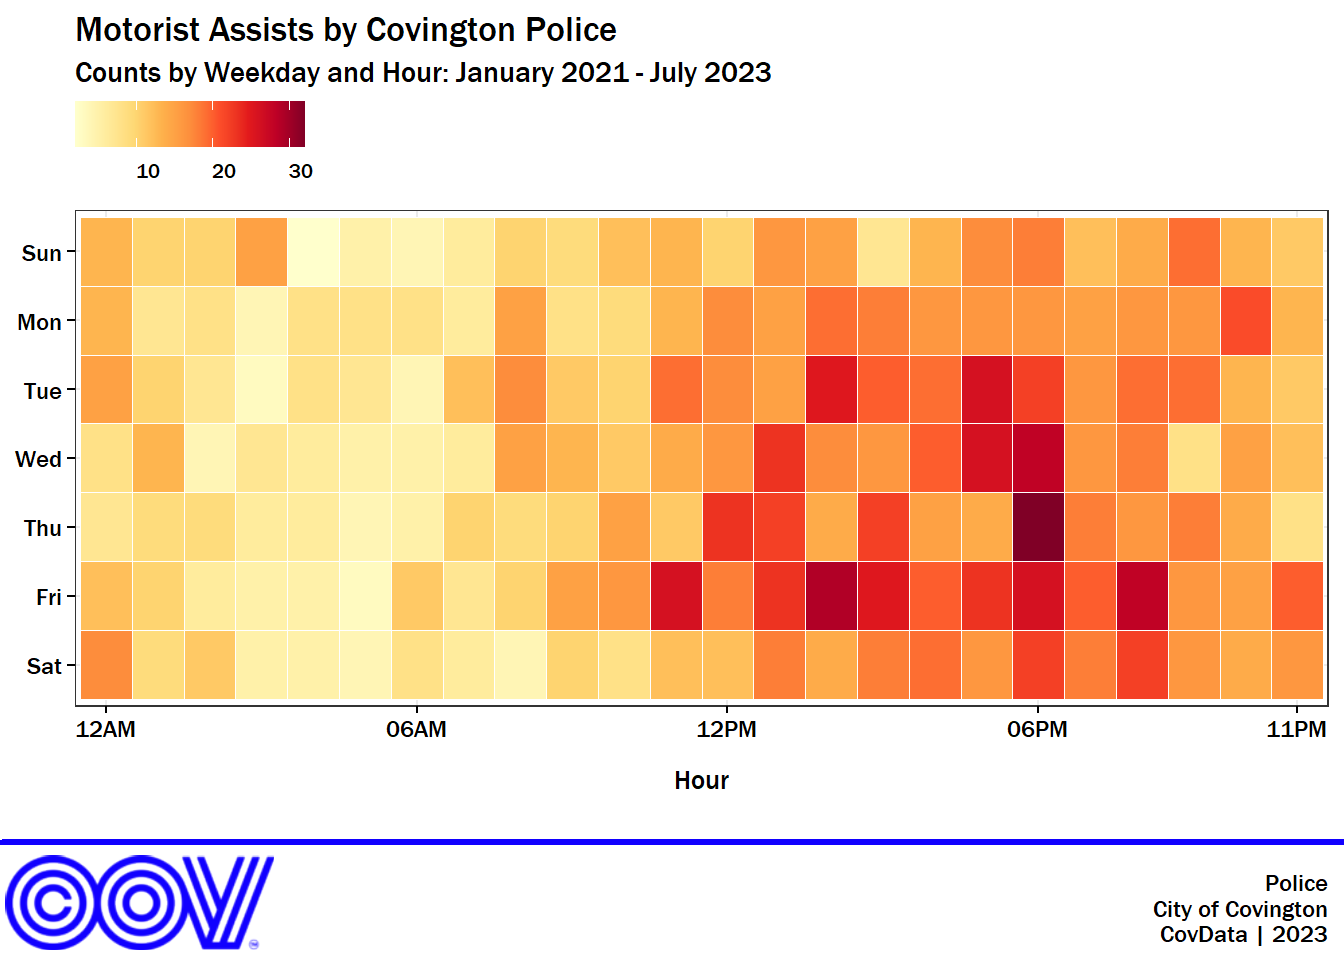
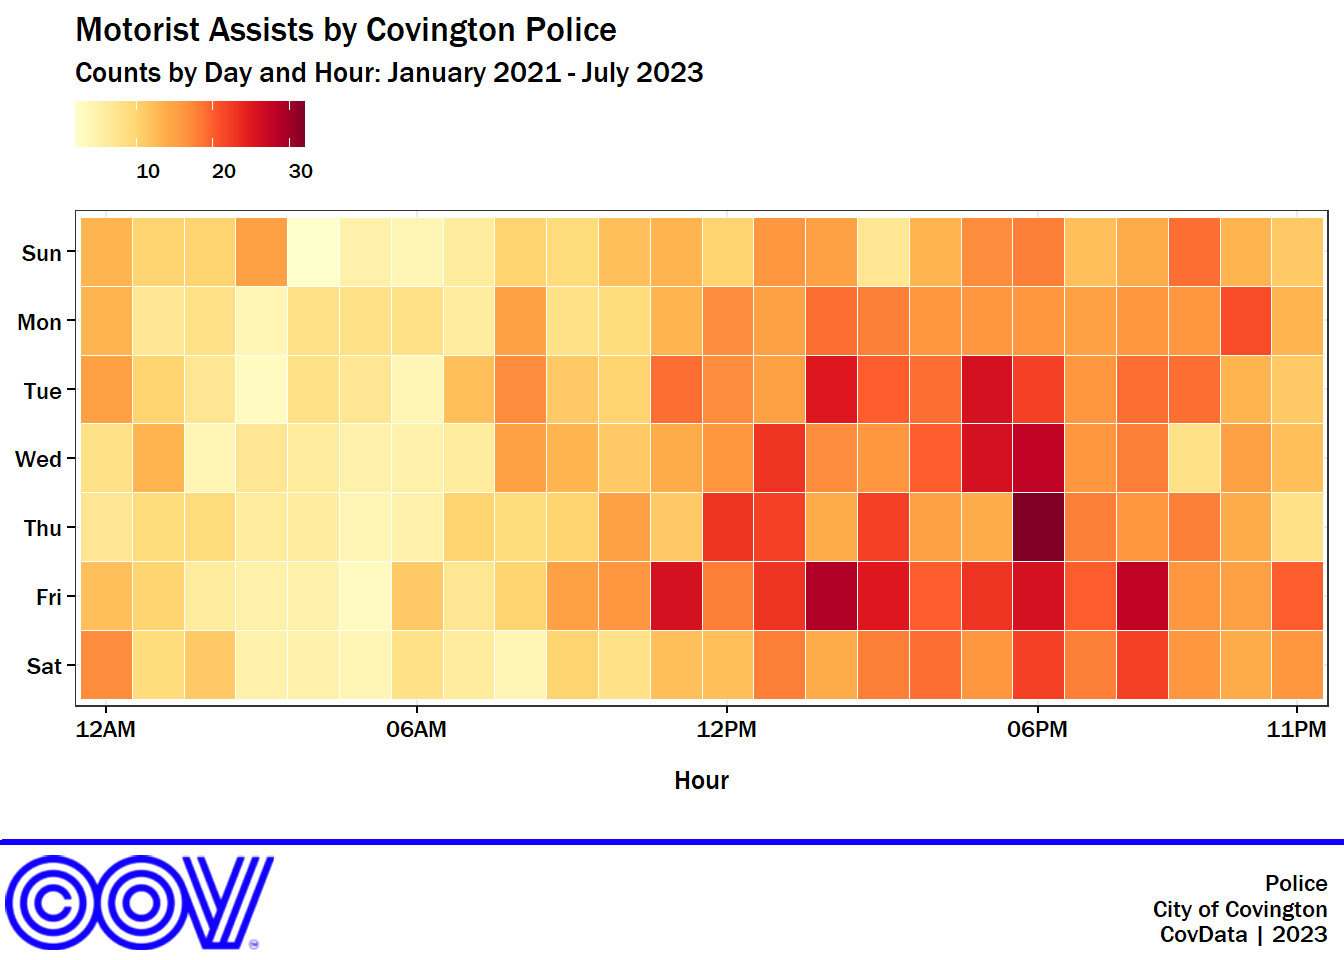
motorist assists

Changed region(s): [[0.1562, 0.0625, 0.5938, 0.0938]]

diff --git a/post/2023-08-21-motorist-assists/index.html b/post/2023-08-21-motorist-assists/index.html
@@ -278,7 +278,7 @@ if (!doNotTrack) {
 <p><img src="motorist_assists.gif" /></p>
 <div id="time-and-day-of-week" class="section level1">
 <h1>Time and Day of Week</h1>
-<p>The heatmap below shows how often the Covington Police respond to motorist assistance calls by weekday and hour. Weekday afternoons and early evenings appear to be when motorists need police assistance most often, especially on Fridays.</p>
+<p>The heatmap below shows how often the Covington Police respond to motorist assistance calls by day and hour. The afternoon and early evening appears to be when motorists need police assistance most often, especially on Fridays.</p>
 <p><img src="../../post/2023-08-21-motorist-assists/index.en_files/figure-html/unnamed-chunk-1-1.png" width="672" /></p>
 </div>
 <div id="season" class="section level1">
